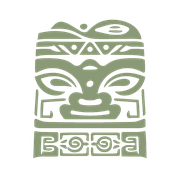
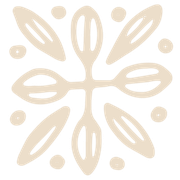
Nuevo index: landing "Coming Soon" desde diseno de Claude Design
Implementado desde el proyecto Sumbahill landing page design (DesignSync),
convertido de dc.html a HTML estatico: anima Ken Burns + reveals CSS,
formulario de email real (api/lead.php), Product+Offer JSON-LD, assets del
cliente descargados de /old-website/ (favicon, logo, foto hero) en vez de
hotlink al WordPress antiguo que ya no resuelve en la raiz del dominio.

diff --git a/index.html b/index.html
@@ -2,204 +2,168 @@
 <html lang="en">
 <head>
 <meta charset="UTF-8">
-<meta name="viewport" content="width=device-width, initial-scale=1.0">
-<title>Sumba Hills · Register Your Interest · Lawang</title>
-<meta name="description" content="Sumba Hills, a new Lawang project in Sumba, Indonesia. Register your interest and our team will contact you with full details.">
+<meta name="viewport" content="width=device-width, initial-scale=1">
+<title>Sumba Hills · Beachfront Land Investment in Sumba, Indonesia</title>
+<meta name="description" content="Exclusive beachfront plots facing an untouched ocean in Sumba, Indonesia, from €29,900. Guaranteed virgin-beach views and the opportunity to build your own luxury villa with a private infinity pool. Coming soon.">
 <link rel="canonical" href="https://sumbahill.com/">
 <link rel="icon" type="image/png" href="favicon.png">
 <link rel="apple-touch-icon" href="apple-touch-icon.png">
 <meta name="robots" content="index,follow">
-<meta name="theme-color" content="#104C4F">
+<meta name="theme-color" content="#0b0f10">
 <meta property="og:type" content="website">
-<meta property="og:title" content="Sumba Hills · Lawang">
-<meta property="og:description" content="A new Lawang project in Sumba, Indonesia. Register your interest — details coming soon.">
+<meta property="og:title" content="Sumba Hills · Where Luxury Is Lived Barefoot">
+<meta property="og:description" content="Exclusive beachfront plots in Sumba, Indonesia, from €29,900. Virgin-beach views, build your own luxury villa with a private infinity pool.">
 <meta property="og:url" content="https://sumbahill.com/">
-<meta name="twitter:card" content="summary">
+<meta property="og:image" content="https://sumbahill.com/assets/sanda-beach-club-hero.jpg">
+<meta name="twitter:card" content="summary_large_image">
+<script type="application/ld+json">
+{
+  "@context": "https://schema.org",
+  "@type": "Product",
+  "name": "Sumba Hills — Beachfront Plots",
+  "description": "Exclusive beachfront plots facing an untouched ocean in Sumba, Indonesia, from €29,900. Guaranteed virgin-beach views and the opportunity to build a luxury villa with a private infinity pool.",
+  "brand": {
+    "@type": "Organization",
+    "name": "Sumba Hills",
+    "parentOrganization": { "@type": "Organization", "name": "Lawang", "url": "https://lawangproperties.com" }
+  },
+  "offers": {
+    "@type": "Offer",
+    "priceCurrency": "EUR",
+    "price": "29900",
+    "url": "https://sumbahill.com/",
+    "availability": "https://schema.org/PreOrder"
+  }
+}
+</script>
 <link rel="preconnect" href="https://fonts.googleapis.com">
 <link rel="preconnect" href="https://fonts.gstatic.com" crossorigin>
-<link href="https://fonts.googleapis.com/css2?family=Cormorant+Garamond:ital,wght@0,400;0,500;0,600;1,400&family=Jost:wght@400;500;600;700&display=swap" rel="stylesheet">
+<link href="https://fonts.googleapis.com/css2?family=Cormorant+Garamond:ital,wght@0,300;0,400;0,500;1,400&family=Jost:wght@300;400;500&display=swap" rel="stylesheet">
 <style>
-:root{
-  --tg:#485B37;      /* Territorial Green */
-  --tg-dark:#364429;
-  --dl:#104C4F;      /* Deep Lagoon */
-  --va:#2E3437;      /* Volcanic Ash */
-  --rl:#F5F0E6;      /* Raw Linen */
-  --line:rgba(46,52,55,.16);
-  --serif:'Cormorant Garamond',Georgia,serif;
-  --sans:'Jost',ui-sans-serif,system-ui,sans-serif;
+*{box-sizing:border-box;margin:0;padding:0}
+html,body{height:100%}
+body{background:#0b0f10;color:#f3efe7;font-family:'Jost',system-ui,sans-serif;-webkit-font-smoothing:antialiased}
+a{color:inherit;text-decoration:none}
+a:hover{color:#e7d9bf}
+a:focus-visible,button:focus-visible,input:focus-visible{outline:2px solid #e7d9bf;outline-offset:3px}
+@keyframes sh-kb{0%{transform:scale(1.08) translate3d(0,0,0)}100%{transform:scale(1.2) translate3d(-1.5%,-2%,0)}}
+@keyframes sh-rise{0%{opacity:0;transform:translateY(18px)}100%{opacity:1;transform:translateY(0)}}
+@keyframes sh-fade{0%{opacity:0}100%{opacity:1}}
+.sh-hero-img{animation:sh-kb 26s ease-out forwards}
+.sh-anim-fade{animation:sh-fade 1.2s ease .1s both}
+.sh-anim-rise-1{animation:sh-rise 1.3s cubic-bezier(.2,.7,.2,1) .15s both}
+.sh-anim-fade-2{animation:sh-fade 1.4s ease .5s both}
+.sh-anim-rise-2{animation:sh-rise 1.4s cubic-bezier(.2,.7,.2,1) .35s both}
+.sh-anim-rise-3{animation:sh-rise 1.5s cubic-bezier(.2,.7,.2,1) .5s both}
+.sh-anim-fade-3{animation:sh-fade 1.6s ease .7s both}
+.sh-anim-rise-4{animation:sh-rise 1.6s cubic-bezier(.2,.7,.2,1) .85s both}
+.sh-anim-fade-4{animation:sh-fade 1.8s ease 1s both}
+.sh-anim-fade-5{animation:sh-fade 1.8s ease 1.1s both}
+.sh-btn{flex:none;background:#e7d9bf;color:#0b0f10;border:none;cursor:pointer;font-family:'Jost',sans-serif;font-size:11px;letter-spacing:.22em;text-transform:uppercase;padding:0 22px}
+.sh-btn:hover{background:#f3efe7}
+.sh-btn:disabled{opacity:.6;cursor:default}
+.sh-err{font-size:12.5px;color:#e0a9a9;margin-top:10px;min-height:16px}
+@media (prefers-reduced-motion:reduce){
+  .sh-hero-img,.sh-anim-fade,.sh-anim-rise-1,.sh-anim-fade-2,.sh-anim-rise-2,.sh-anim-rise-3,.sh-anim-fade-3,.sh-anim-rise-4,.sh-anim-fade-4,.sh-anim-fade-5{animation:none;opacity:1;transform:none}
 }
-*{margin:0;padding:0;box-sizing:border-box}
-body{background:var(--rl);color:var(--va);font-family:var(--sans);line-height:1.6;-webkit-font-smoothing:antialiased;min-height:100vh}
-a{color:var(--tg)}
-a:focus-visible,button:focus-visible,input:focus-visible{outline:2px solid var(--tg);outline-offset:2px}
-.top{max-width:560px;margin:0 auto;padding:28px clamp(20px,6vw,40px) 0;display:flex;justify-content:space-between;align-items:center;gap:1rem}
-.back{font-size:11px;font-weight:600;letter-spacing:.14em;text-transform:uppercase;text-decoration:none;color:var(--va)}
-.back:hover{color:var(--tg)}
-.lang-toggle{display:flex;gap:2px;border:1px solid var(--line);border-radius:999px;padding:3px}
-.lang-toggle button{background:none;border:none;border-radius:999px;padding:5px 14px;font-family:var(--sans);font-size:11px;font-weight:600;letter-spacing:.08em;cursor:pointer;color:var(--va)}
-.lang-toggle button[aria-pressed="true"]{background:var(--tg);color:var(--rl)}
-main{max-width:560px;margin:0 auto;padding:clamp(28px,6vh,48px) clamp(20px,6vw,40px) clamp(48px,8vh,72px)}
-.eyebrow{font-size:11.5px;letter-spacing:.28em;text-transform:uppercase;color:var(--tg);margin:0 0 10px;font-weight:600}
-h1{font-family:var(--serif);font-weight:500;font-size:clamp(36px,8vw,52px);color:var(--dl);line-height:1.08;margin:0 0 14px}
-.lede{font-size:clamp(15px,2vw,17px);color:rgba(46,52,55,.82);margin:0 0 32px;max-width:46ch}
-form{display:flex;flex-direction:column;gap:14px}
-label{font-size:11.5px;font-weight:600;letter-spacing:.08em;text-transform:uppercase;color:rgba(46,52,55,.7);margin-bottom:6px;display:block}
-.field{display:flex;flex-direction:column}
-input{font-family:var(--sans);font-size:16px;padding:13px 15px;border:1px solid var(--line);border-radius:8px;background:#fff;color:var(--va)}
-input:focus{border-color:var(--tg)}
-input[aria-invalid="true"]{border-color:#a33}
-.err{font-size:12px;color:#a33;margin-top:5px;min-height:14px}
-button[type="submit"]{margin-top:6px;background:var(--tg);color:var(--rl);border:none;border-radius:8px;padding:15px 18px;font-family:var(--sans);font-weight:600;font-size:14px;letter-spacing:.06em;text-transform:uppercase;cursor:pointer}
-button[type="submit"]:hover{background:var(--tg-dark)}
-button[type="submit"]:disabled{opacity:.6;cursor:default}
-.note{font-size:12.5px;color:rgba(46,52,55,.55);margin-top:10px}
-#thanks{display:flex;flex-direction:column;gap:10px}
-#thanks h2{font-family:var(--serif);font-weight:500;font-size:clamp(24px,5vw,30px);color:var(--dl)}
-#thanks p{font-size:15px;color:rgba(46,52,55,.85)}
 [hidden]{display:none !important}
-footer{border-top:1px solid var(--line);max-width:560px;margin:40px auto 0;padding:20px clamp(20px,6vw,40px) 36px;font-size:12px;color:rgba(46,52,55,.55)}
 </style>
 </head>
 <body>
-
-<div class="top">
-  <a class="back" href="https://lawangproperties.com/">&larr; Lawang</a>
-  <div class="lang-toggle" role="group" aria-label="Language">
-    <button type="button" data-lang="en" aria-pressed="true">EN</button>
-    <button type="button" data-lang="es" aria-pressed="false">ES</button>
+<main style="position:relative;min-height:100vh;width:100%;overflow:hidden;display:flex;flex-direction:column">
+  <div style="position:absolute;inset:0;z-index:0;overflow:hidden">
+    <img class="sh-hero-img" src="assets/sanda-beach-club-hero.jpg" alt="Sanda Club Beach Club, Sumba" style="position:absolute;inset:0;width:100%;height:100%;object-fit:cover;transform-origin:60% 40%" loading="eager" fetchpriority="high">
+    <div style="position:absolute;inset:0;background:linear-gradient(180deg,rgba(8,11,12,.72) 0%,rgba(8,11,12,.28) 34%,rgba(8,11,12,.35) 62%,rgba(8,11,12,.88) 100%)"></div>
+    <div style="position:absolute;inset:0;background:radial-gradient(120% 80% at 50% 30%,transparent 40%,rgba(8,11,12,.55) 100%)"></div>
   </div>
-</div>
 
-<main>
-  <section id="form-en" lang="en">
-    <div class="eyebrow">Lawang · New project</div>
-    <h1>Sumba Hills</h1>
-    <p class="lede">Details are being finalized. Leave your contact and our team will reach out with the full information as soon as it's ready.</p>
+  <header class="sh-anim-fade" style="position:relative;z-index:2;display:flex;align-items:center;justify-content:space-between;padding:30px clamp(24px,5vw,72px)">
+    <span style="font-size:11px;letter-spacing:.32em;text-transform:uppercase;color:rgba(243,239,231,.72)">Sumba · Indonesia</span>
+    <a href="mailto:[email redacted]" style="font-size:11px;letter-spacing:.28em;text-transform:uppercase;color:rgba(243,239,231,.72);border-bottom:1px solid rgba(243,239,231,.28);padding-bottom:3px">Contact</a>
+  </header>
 
-    <form id="leadForm-en" novalidate>
-      <div class="field">
-        <label for="name-en">Name</label>
-        <input id="name-en" name="name" type="text" autocomplete="name" required>
-        <div class="err" data-err="name"></div>
+  <section style="position:relative;z-index:2;flex:1;display:flex;flex-direction:column;align-items:center;justify-content:center;text-align:center;padding:8px clamp(24px,5vw,72px) 0">
+    <img class="sh-anim-rise-1" src="assets/sumba-hills-logo-white.png" alt="Sumba Hills" style="width:min(230px,54vw);height:auto;margin-bottom:34px">
+
+    <div class="sh-anim-fade-2" style="display:inline-flex;align-items:center;gap:12px;margin-bottom:22px">
+      <span style="width:34px;height:1px;background:rgba(231,217,191,.6)"></span>
+      <span style="font-size:11px;letter-spacing:.42em;text-transform:uppercase;color:#e7d9bf">Coming soon</span>
+      <span style="width:34px;height:1px;background:rgba(231,217,191,.6)"></span>
+    </div>
+
+    <h1 class="sh-anim-rise-2" style="font-family:'Cormorant Garamond',serif;font-weight:400;font-size:clamp(38px,6.6vw,88px);line-height:1.02;letter-spacing:.005em;max-width:14ch;text-wrap:balance">Where luxury is lived barefoot</h1>
+
+    <p class="sh-anim-rise-3" style="font-family:'Cormorant Garamond',serif;font-style:italic;font-weight:300;font-size:clamp(19px,2.4vw,27px);color:rgba(243,239,231,.9);margin-top:20px;max-width:34ch;text-wrap:pretty">Invest in a pristine paradise with high returns.</p>
+
+    <p class="sh-anim-fade-3" style="font-size:14.5px;line-height:1.72;font-weight:300;color:rgba(243,239,231,.78);margin-top:26px;max-width:52ch;text-wrap:pretty">Exclusive beachfront plots facing an untouched ocean in Sumba, Indonesia, from €29,900. With guaranteed views over a virgin beach and the opportunity to build a luxury villa with your own private infinity pool.</p>
+
+    <div class="sh-anim-rise-4" style="display:flex;flex-wrap:wrap;align-items:center;justify-content:center;gap:14px;margin-top:34px">
+      <span style="display:inline-flex;align-items:baseline;gap:8px;border:1px solid rgba(231,217,191,.4);border-radius:2px;padding:11px 18px;background:rgba(11,15,16,.35);backdrop-filter:blur(4px)">
+        <span style="font-size:10px;letter-spacing:.28em;text-transform:uppercase;color:rgba(243,239,231,.6)">From</span>
+        <span style="font-family:'Cormorant Garamond',serif;font-size:24px;color:#e7d9bf">€29,900</span>
+      </span>
+    </div>
+
+    <form id="subscribeForm" class="sh-anim-fade-4" novalidate style="margin-top:36px;width:min(440px,90vw)">
+      <div>
+        <label for="sh-email" style="display:block;font-size:10px;letter-spacing:.3em;text-transform:uppercase;color:rgba(243,239,231,.6);margin-bottom:12px">Be the first to receive the details</label>
+        <div style="display:flex;gap:0;border:1px solid rgba(243,239,231,.35);border-radius:2px;overflow:hidden;background:rgba(11,15,16,.4);backdrop-filter:blur(6px)">
+          <input id="sh-email" name="email" type="email" required autocomplete="email" placeholder="[email redacted]" style="flex:1;min-width:0;background:transparent;border:none;outline:none;color:#f3efe7;font-family:'Jost',sans-serif;font-size:14px;padding:14px 16px">
+          <button type="submit" class="sh-btn">Notify me</button>
+        </div>
+        <div class="sh-err" data-err></div>
       </div>
-      <div class="field">
-        <label for="whatsapp-en">WhatsApp number (with country code)</label>
-        <input id="whatsapp-en" name="whatsapp" type="tel" inputmode="tel" autocomplete="tel" placeholder="[phone redacted]" required>
-        <div class="err" data-err="whatsapp"></div>
-      </div>
-      <div class="field">
-        <label for="email-en">Email</label>
-        <input id="email-en" name="email" type="email" autocomplete="email" required>
-        <div class="err" data-err="email"></div>
-      </div>
-      <button type="submit">Register interest</button>
-      <p class="note">We'll only use your details to contact you about Sumba Hills.</p>
     </form>
 
-    <div id="thanks-en" hidden>
-      <h2>Thank you</h2>
-      <p>We've received your details. Our team will contact you shortly.</p>
+    <div id="subscribeThanks" class="sh-anim-fade-4" hidden>
+      <p style="font-family:'Cormorant Garamond',serif;font-style:italic;font-size:20px;color:#e7d9bf">Thank you. We'll let you know when reservations open.</p>
     </div>
   </section>
 
-  <section id="form-es" lang="es" hidden>
-    <div class="eyebrow">Lawang · Nuevo proyecto</div>
-    <h1>Sumba Hills</h1>
-    <p class="lede">Los detalles están cerrándose. Déjanos tu contacto y nuestro equipo se pondrá en contacto contigo con la información completa en cuanto esté lista.</p>
-
-    <form id="leadForm-es" novalidate>
-      <div class="field">
-        <label for="name-es">Nombre</label>
-        <input id="name-es" name="name" type="text" autocomplete="name" required>
-        <div class="err" data-err="name"></div>
-      </div>
-      <div class="field">
-        <label for="whatsapp-es">WhatsApp (con prefijo de país)</label>
-        <input id="whatsapp-es" name="whatsapp" type="tel" inputmode="tel" autocomplete="tel" placeholder="[phone redacted]" required>
-        <div class="err" data-err="whatsapp"></div>
-      </div>
-      <div class="field">
-        <label for="email-es">Email</label>
-        <input id="email-es" name="email" type="email" autocomplete="email" required>
-        <div class="err" data-err="email"></div>
-      </div>
-      <button type="submit">Registrar interés</button>
-      <p class="note">Solo usaremos tus datos para contactarte sobre Sumba Hills.</p>
-    </form>
-
-    <div id="thanks-es" hidden>
-      <h2>Gracias</h2>
-      <p>Hemos recibido tus datos. Nuestro equipo se pondrá en contacto contigo en breve.</p>
-    </div>
-  </section>
+  <footer class="sh-anim-fade-5" style="position:relative;z-index:2;display:flex;flex-wrap:wrap;align-items:center;justify-content:center;gap:10px 26px;padding:26px clamp(24px,5vw,72px) 34px">
+    <a href="mailto:[email redacted]" style="font-size:12.5px;letter-spacing:.06em;color:rgba(243,239,231,.85)">[email redacted]</a>
+    <span style="width:4px;height:4px;border-radius:50%;background:rgba(231,217,191,.5)"></span>
+    <a href="tel:[phone redacted]" style="font-size:12.5px;letter-spacing:.06em;color:rgba(243,239,231,.85)">[phone redacted]</a>
+    <span style="width:4px;height:4px;border-radius:50%;background:rgba(231,217,191,.5)"></span>
+    <span style="font-size:11px;letter-spacing:.14em;text-transform:uppercase;color:rgba(243,239,231,.5)">© Sumba Hills 2026</span>
+  </footer>
 </main>
-
-<footer>&copy; 2026 Sumba Hills · A Lawang project · Indonesia</footer>
 
 <script>
 (function(){
-  var langBtns = document.querySelectorAll('.lang-toggle button');
-  langBtns.forEach(function(b){ b.addEventListener('click', function(){
-    var lang = b.dataset.lang;
-    document.getElementById('form-en').hidden = lang !== 'en';
-    document.getElementById('form-es').hidden = lang !== 'es';
-    document.documentElement.lang = lang;
-    langBtns.forEach(function(x){ x.setAttribute('aria-pressed', String(x === b)); });
-  });});
-
   function validEmail(v){ return /^[^\s@]+@[^\s@]+\.[^\s@]{2,}$/.test(v); }
-  function validWhatsapp(v){ return /^\+?\d{7,15}$/.test(v.replace(/[\s()-]/g,'')); }
 
-  ['en','es'].forEach(function(lang){
-    var form = document.getElementById('leadForm-' + lang);
-    var thanks = document.getElementById('thanks-' + lang);
-    form.addEventListener('submit', function(e){
-      e.preventDefault();
-      var name = form.querySelector('[name="name"]').value.trim();
-      var whatsapp = form.querySelector('[name="whatsapp"]').value.trim();
-      var email = form.querySelector('[name="email"]').value.trim();
-      var errs = form.querySelectorAll('.err');
-      errs.forEach(function(el){ el.textContent = ''; });
-      form.querySelectorAll('input').forEach(function(i){ i.removeAttribute('aria-invalid'); });
+  var form = document.getElementById('subscribeForm');
+  var thanks = document.getElementById('subscribeThanks');
+  var err = form.querySelector('[data-err]');
 
-      var ok = true;
-      if (!name){ setErr(form, 'name', lang === 'es' ? 'Introduce tu nombre.' : 'Enter your name.'); ok = false; }
-      if (!validWhatsapp(whatsapp)){ setErr(form, 'whatsapp', lang === 'es' ? 'Número de WhatsApp no válido.' : 'Enter a valid WhatsApp number.'); ok = false; }
-      if (!validEmail(email)){ setErr(form, 'email', lang === 'es' ? 'Email no válido.' : 'Enter a valid email.'); ok = false; }
-      if (!ok) return;
+  form.addEventListener('submit', function(e){
+    e.preventDefault();
+    var email = form.querySelector('#sh-email').value.trim();
+    err.textContent = '';
+    if (!validEmail(email)){ err.textContent = 'Enter a valid email.'; return; }
 
-      var btn = form.querySelector('button[type="submit"]');
-      btn.disabled = true;
+    var btn = form.querySelector('button[type="submit"]');
+    btn.disabled = true;
 
-      var body = 'name=' + encodeURIComponent(name) +
-        '&whatsapp=' + encodeURIComponent(whatsapp) +
-        '&email=' + encodeURIComponent(email) +
-        '&source=sumba-hills-qr&property=sumba-hills';
+    var body = 'email=' + encodeURIComponent(email) + '&source=sumbahills-comingsoon&property=sumba-hills';
 
-      fetch('api/lead.php', { method: 'POST', headers: { 'Content-Type': 'application/x-www-form-urlencoded' }, body: body })
-        .then(function(r){ return r.json(); })
-        .then(function(d){
-          if (d && d.ok){
-            form.hidden = true;
-            thanks.hidden = false;
-          } else {
-            setErr(form, 'email', lang === 'es' ? 'No se pudo enviar. Inténtalo de nuevo.' : 'Could not submit. Please try again.');
-            btn.disabled = false;
-          }
-        })
-        .catch(function(){
-          setErr(form, 'email', lang === 'es' ? 'No se pudo enviar. Inténtalo de nuevo.' : 'Could not submit. Please try again.');
+    fetch('api/lead.php', { method: 'POST', headers: { 'Content-Type': 'application/x-www-form-urlencoded' }, body: body })
+      .then(function(r){ return r.json(); })
+      .then(function(d){
+        if (d && d.ok){
+          form.hidden = true;
+          thanks.hidden = false;
+        } else {
+          err.textContent = 'Could not submit. Please try again.';
           btn.disabled = false;
-        });
-    });
+        }
+      })
+      .catch(function(){
+        err.textContent = 'Could not submit. Please try again.';
+        btn.disabled = false;
+      });
   });
-
-  function setErr(form, field, msg){
-    var input = form.querySelector('[name="' + field + '"]');
-    input.setAttribute('aria-invalid', 'true');
-    form.querySelector('[data-err="' + field + '"]').textContent = msg;
-  }
 })();
 </script>
 </body>